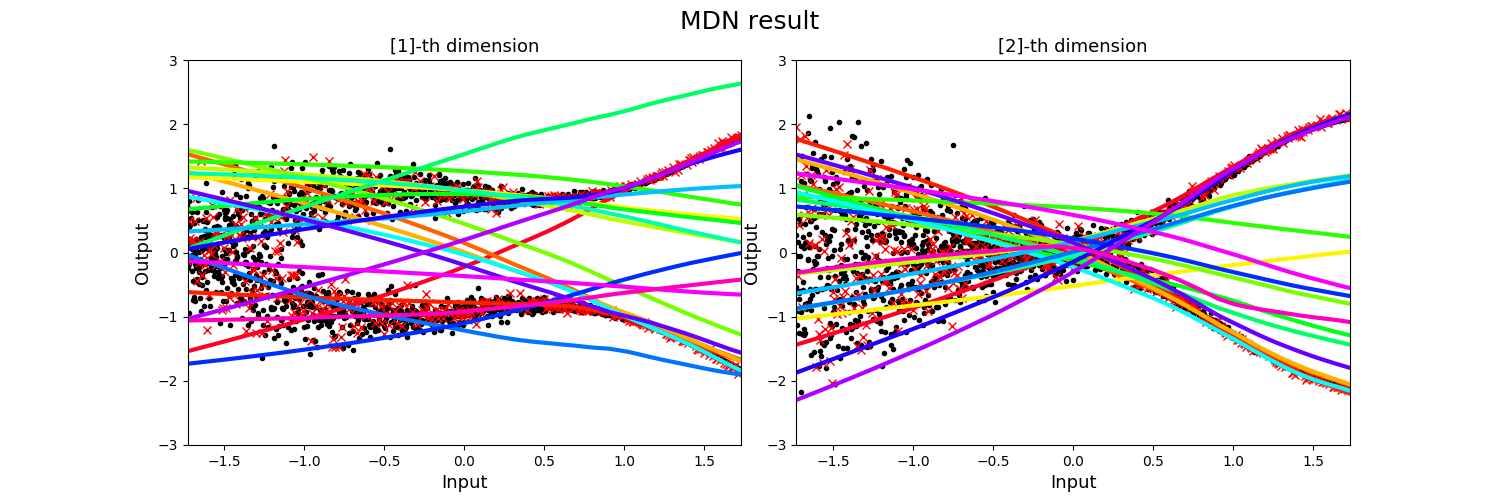
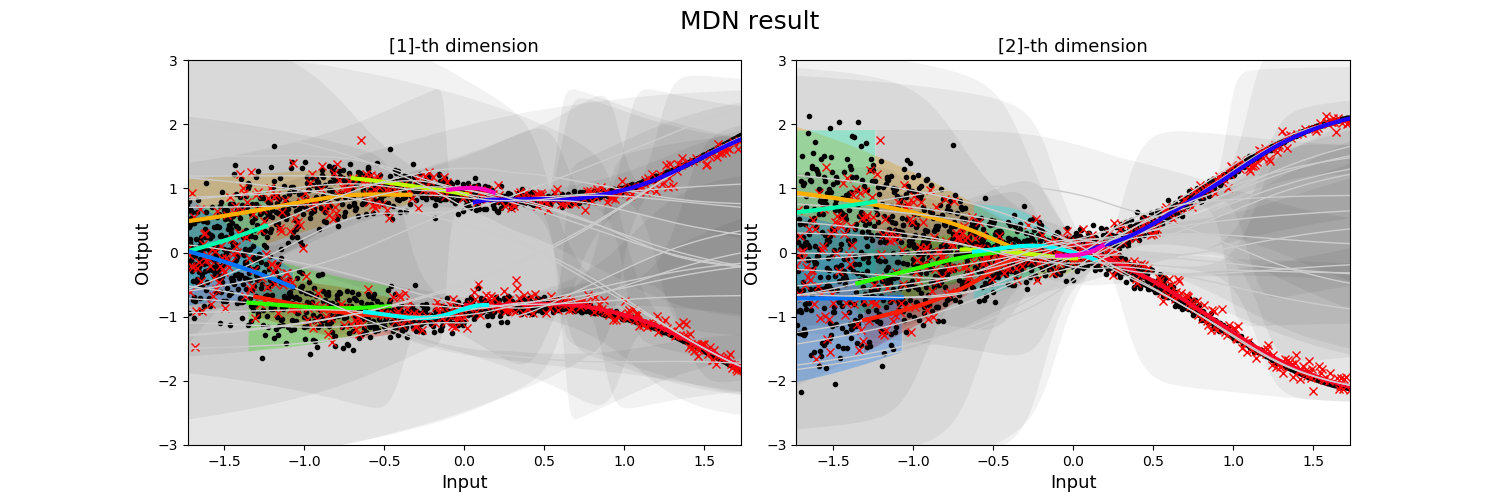
edit visualization

diff --git a/subclass_model.py b/subclass_model.py
@@ -50,15 +50,16 @@ class MDN_reg_class(Model):
 
 
     def call(self,x):
-        net=self.layer_hidden(x)  # shape=[N, hids[0]]
+        net = self.layer_hidden(x)  # shape=[N, hids[0]]
         # GMM element
-        phi=self.layer_phi(net) # Weighted Value : [N,self.k]
-        mu=self.layer_mu(net) # mean : [N, self.y_dim, self.k]
-        logvar=self.layer_logvar(net) # variance : [N, self.y_dim, self.k]
+        phi = self.layer_phi(net) # Weighted Value : [N,self.k]
+        mu = self.layer_mu(net) # mean : [N, self.y_dim, self.k]
+        logvar = self.layer_logvar(net) # variance : [N, self.y_dim, self.k]
         if self.sig_max==0:
-            var=K.exp(logvar)
+            var = K.exp(logvar)
         else:
-            var=self.sig_max*self.sig_rate*K.sigmoid(logvar)
+            var = self.sig_max * self.sig_rate * K.sigmoid(logvar)
+        var = Lambda((lambda x: x + 0.01))(var)
         # # GMM distribution
         outputs=Lambda(self.distribution, output_shape=[self.y_dim], name="Mixture_density", trainable=False)([phi, mu, var])
         return outputs
@@ -85,44 +86,46 @@ class MDN_reg_class(Model):
         mu=self.layer_mu(net) # [N, self.y_dim, self.k]
         logvar=self.layer_logvar(net)  # [N, self.y_dim, self.k]
         if self.sig_max==0:
-            var=K.exp(logvar)
+            var = K.exp(logvar)
         else:
-            var=self.sig_max*self.sig_rate*K.sigmoid(logvar)
-        phi=K.expand_dims(phi,1)
+            var = self.sig_max*self.sig_rate*K.sigmoid(logvar)
+        phi = K.expand_dims(phi,1)
 
-        EVs=K.sum(multiply([phi,var]),axis=2)
+        EVs = K.sum(multiply([phi,var]),axis=2)
         # EVs=K.sum(EVs,axis=1)
 
-        mu_average=K.sum(multiply([phi,mu]),axis=2)
-        mu_diff_sq=K.square(mu-K.expand_dims(mu_average,2))
+        mu_average = K.sum(multiply([phi,mu]),axis=2)
+        mu_diff_sq = K.square(mu-K.expand_dims(mu_average,2))
 
-        VEs=K.sum(multiply([phi,mu_diff_sq]), axis=2)
+        VEs = K.sum(multiply([phi,mu_diff_sq]), axis=2)
         # VEs=K.sum(VEs,axis=1)
         return K.eval(EVs), K.eval(VEs)
 
     def custom_loss(self, x_train,y_true):
-        tfd_mog=self.call(x_train)
-        log_liks=tfd_mog.log_prob(y_true)
-        log_lik=tf.reduce_mean(log_liks)
+        tfd_mog = self.call(x_train)
+        log_liks = tfd_mog.log_prob(y_true)
+        log_lik = tf.reduce_mean(log_liks)
         return -log_lik
 
     # # Plot results
     def plot_result(self, _x_test,epoch, _title='MDN result', _fontsize=18,
-                    _figsize=(15, 5), _wspace=0.1, _hspace=0.05, _sig_rate=1.0, _pi_th=0.0,
+                    _figsize=(15, 5), _wspace=0.1, _hspace=0.05, _sig_rate=1.0, _pi_th=0.1,
                     _x_train=None, _y_train=None,
                     _ylim=[-3, +3]):
         # sample
-        self.sig_rate=_sig_rate
-        distribution=self.call(_x_test)
-        y_sample=K.eval(K.squeeze(distribution.sample(1),0))
+        self.sig_rate = _sig_rate
+        distribution = self.call(_x_test)
+        y_sample = K.eval(K.squeeze(distribution.sample(1),0))
         net = self.layer_hidden(_x_test)
         phi = K.eval(self.layer_phi(net))  # [N,self.k]
         mu = K.eval(self.layer_mu(net))  # [N, self.y_dim, self.k]
         logvar = K.eval(self.layer_logvar(net))  # [N, self.y_dim, self.k]
-        if self.sig_max==0:
-            var=K.exp(logvar)
+        if self.sig_max == 0:
+            var = K.exp(logvar)
+            var = K.eval(var)
         else:
             var=self.sig_max*self.sig_rate*K.sigmoid(logvar)
+            var = K.eval(var)
         # plot per each output dimensions (self.y_dim)
         nr, nc = 1, self.y_dim
         if nc > 2: nc = 2  # Upper limit on the number of columns
@@ -137,16 +140,19 @@ class MDN_reg_class(Model):
             if _x_train is not None:
                 plt.plot(_x_train[:, 0], _y_train[:, i], 'k.')
             plt.plot(_x_test[:, 0], y_sample[:, i], 'rx')  # plot samples per each dimension
-            # for j in range(self.k):  # per each mixture, plot variance
-            #     idx = np.where(phi[:, j] < _pi_th)[0]
-            #     if idx:
-            #         plt.fill_between(_x_test[idx, 0], mu[idx, i, j] - 2 * np.sqrt(var[idx, i, j]),
-            #                      mu[idx, i, j] + 2 * np.sqrt(var[idx, i, j]),
-            #                      facecolor='k', interpolate=True, alpha=0.05)
-            #     idx = np.where(phi[:, j] > _pi_th)[0]
-            #     plt.fill_between(_x_test[idx, 0], mu[idx, i, j] - 2 * np.sqrt(var[idx, i, j]),
-            #                  mu[idx, i, j] + 2 * np.sqrt(var[idx, i, j]),
-            #                  facecolor=colors[j], interpolate=True, alpha=0.3)
+            for j in range(self.k):  # per each mixture, plot variance
+                idx = np.where(phi[:, j] < _pi_th)[0]
+                if len(idx) > 0:
+                    plt.fill_between(_x_test[idx, 0],
+                                     mu[idx, i, j] - 2 * np.sqrt(var[idx, i, j]),
+                                     mu[idx, i, j] + 2 * np.sqrt(var[idx, i, j]),
+                                     facecolor='k', interpolate=True, alpha=0.05)
+                idx = np.where(phi[:, j] > _pi_th)[0]
+                if len(idx) > 0:
+                    plt.fill_between(_x_test[idx, 0],
+                                     mu[idx, i, j] - 2 * np.sqrt(var[idx, i, j]),
+                                     mu[idx, i, j] + 2 * np.sqrt(var[idx, i, j]),
+                                     facecolor=colors[j], interpolate=True, alpha=0.3)
             for j in range(self.k):  # per each mixture, plot mu
                 idx = np.where(phi[:, j] > _pi_th)[0]
                 plt.plot(_x_test[:, 0], mu[:, i, j], '-', color=[0.8, 0.8, 0.8], linewidth=1)
@@ -162,9 +168,8 @@ class MDN_reg_class(Model):
     def plot_variances(self, _x_test,epoch,_title='blue:Var[E[y|x]] / red:E[Var[y|x]]', _fontsize=18,
                        _figsize=(15, 5), _wspace=0.1, _hspace=0.05):
         # Plot EV and VE
-
-        self.sig_rate=1.0
-        EVs, VEs=self.get_Variance(_x_test)
+        self.sig_rate = 1.0
+        EVs, VEs = self.get_Variance(_x_test)
         VEs = 0.1 * VEs  # scale V[E[y|x]] to match that of E[V[y|x]]
         # plot per each output dimensions (self.y_dim)
         nr, nc = 1, self.y_dim
@@ -214,7 +219,7 @@ class MDN_reg_class(Model):
         return model
 
     def mu_network(self):
-        model=Sequential(name="Mu")
+        model = Sequential(name="Mu")
         model.add(Dense(self.k*self.y_dim, kernel_initializer=tfrni(stddev=0.01),
                         bias_initializer=tfrui(minval=-1, maxval=1),
                         kernel_regularizer=l2(self.l2_reg_coef),
@@ -225,7 +230,7 @@ class MDN_reg_class(Model):
         return model
 
     def logvar_network(self):
-        model=Sequential(name="LogVar")
+        model = Sequential(name="LogVar")
         model.add(Dense(self.k*self.y_dim, kernel_initializer=tfrni(stddev=0.01),
                         bias_initializer=tfci(0),
                         kernel_regularizer=l2(self.l2_reg_coef),
